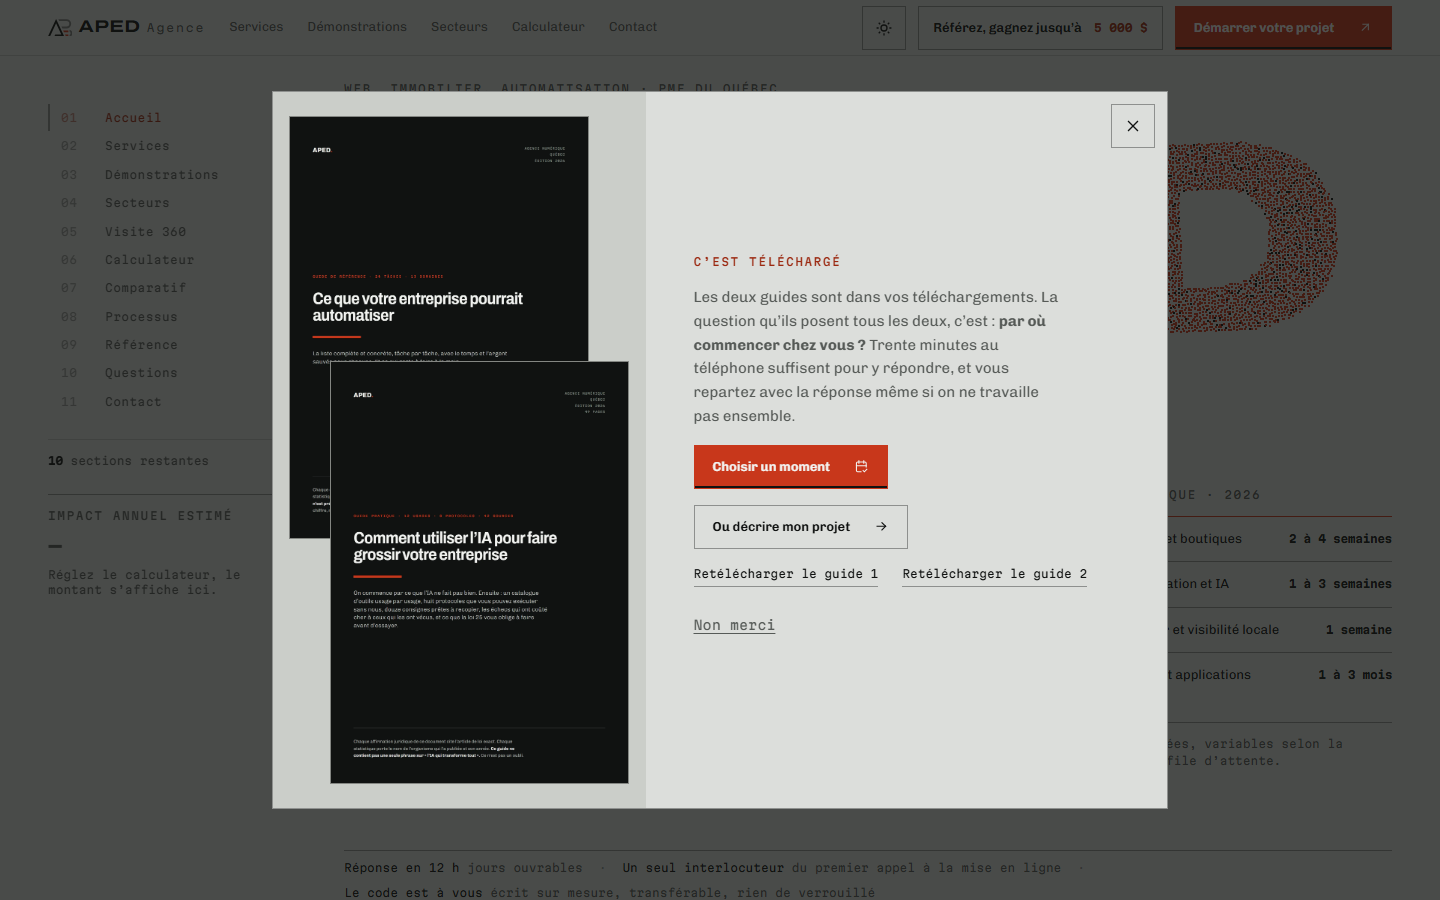
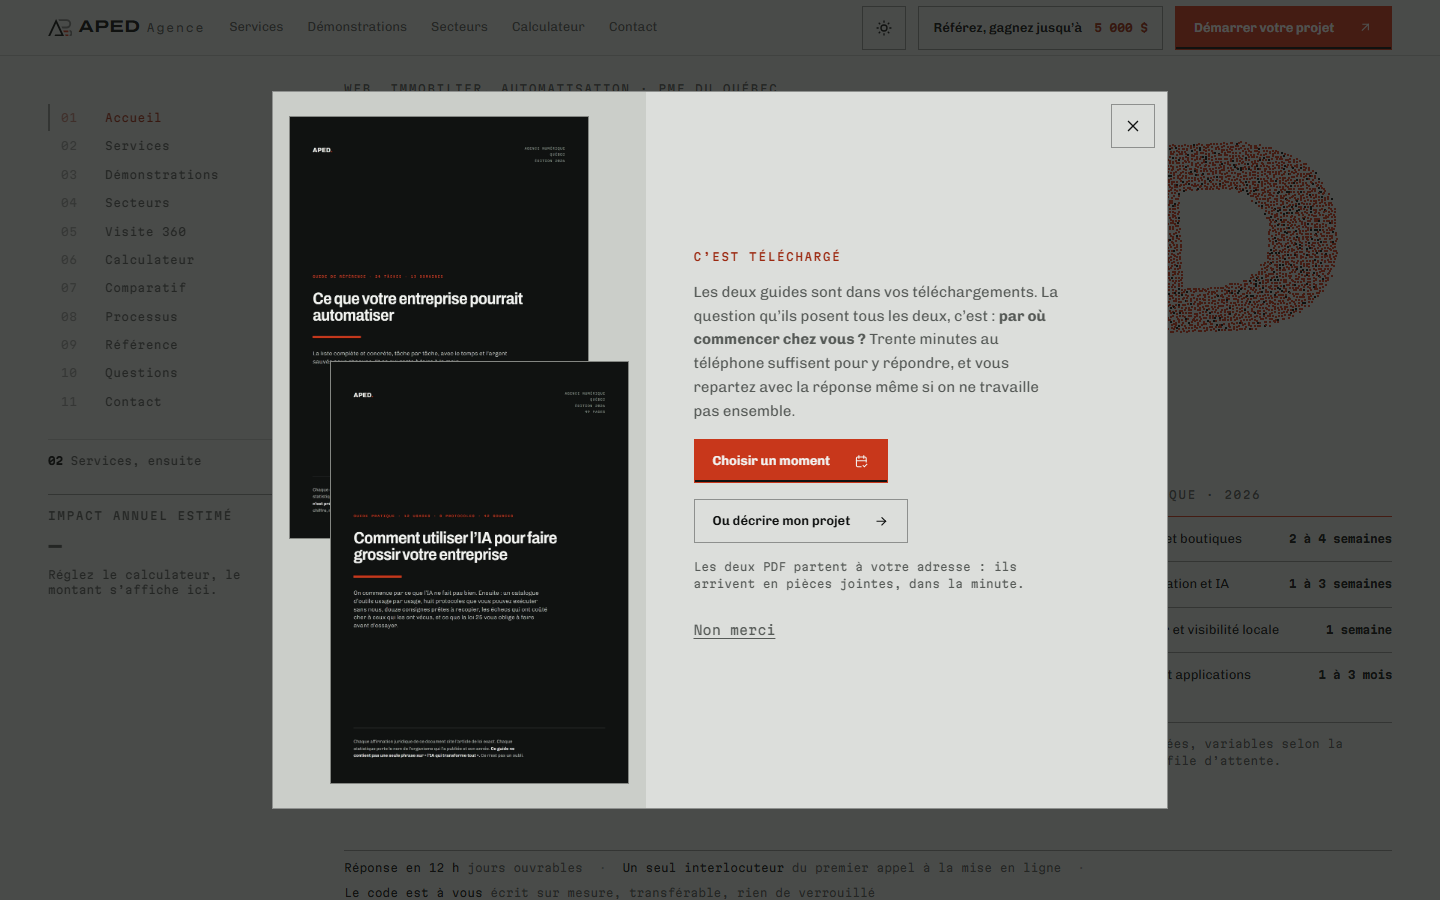
les guides partent du serveur, contre coordonnees, pour de vrai
POINT 3d. Ils etaient servis en STATIQUE : `GET
/documents/aped-automatisation.pdf` rendait 2 Mo de PDF a qui
connaissait l'adresse — et l'adresse etait EN CLAIR dans
`index.html` ET dans `js/main.js`. Le popup annoncait « contre vos
coordonnees » et ne gardait rien : le lead magnet ne captait que
ceux qui voulaient bien jouer le jeu.

APPS SCRIPT NE SAIT PAS SERVIR D'OCTETS. `ContentService` ne rend
que du texte, `HtmlService` que du HTML : il n'existe aucune facon
de faire descendre un PDF par une Web App. La seule livraison qui
soit a la fois REELLE et CONDITIONNELLE est la piece jointe par
courriel — c'est celle-la.

  · les deux fichiers vivent dans un dossier Drive, plus dans le
    site ;
  · le formulaire du popup declenche un courriel avec les deux en
    pieces jointes ;
  · plus AUCUN lien vers un PDF dans la page, ni dans le script
    servi ;
  · `telecharger()` a disparu au lieu d'etre reecrite : une
    fonction qui pointe vers des fichiers qu'on ne sert plus est un
    lien mort qui attend son heure.

CE QUE CA COUTE, EN CLAIR : un envoi de plus au quota des cent par
jour, par lead. C'est le prix d'un lead magnet qui capte vraiment.

Un guide manquant dans Drive ne fait PAS echouer l'envoi : la
personne a donne ses coordonnees, elle doit recevoir quelque chose.
Le manque part au journal, ou il se voit — un envoi qui leve, lui,
ne laisserait que du silence.

Et le cas de `cadeau-check` gardait l'ANCIEN comportement : il
[…]

Changed region(s): [[0.4688, 0.28, 0.7188, 0.5911], [0.4688, 0.6222, 0.75, 0.6533], [0.4688, 0.6844, 0.5312, 0.7156]]

diff --git a/js/main.js b/js/main.js
@@ -1256,31 +1256,19 @@
       b.addEventListener("click", fermer);
     });
 
-    /* --- LES DEUX GUIDES, ET CE QU'ILS COUTENT MAINTENANT. --- */
-    var GUIDES = [
-      { fichier: "documents/aped-automatisation.pdf", nom: "aped-ce-que-vous-pourriez-automatiser.pdf" },
-      { fichier: "documents/aped-ia-croissance.pdf", nom: "aped-lia-pour-faire-grossir-votre-entreprise.pdf" }
-    ];
+    /* LES GUIDES NE SONT PLUS DANS LE SITE.  D-788
 
-    /* LE TELECHARGEMENT SE FAIT ICI, PAS PAR COURRIEL.  D-406
-       L'ancienne version promettait un envoi par courriel, alors
-       qu'aucun service d'envoi n'a jamais ete active : la promesse ne
-       tenait pas. Un `<a download>` clique par le script telecharge
-       tout de suite, sans reseau, sans promesse. */
-    function telecharger() {
-      GUIDES.forEach(function (g, i) {
-        window.setTimeout(function () {
-          var a = doc.createElement("a");
-          a.href = g.fichier;
-          a.download = g.nom;
-          a.rel = "noopener";
-          doc.body.appendChild(a);
-          a.click();
-          doc.body.removeChild(a);
-        }, i * 350);   /* deux telechargements simultanes : le second est souvent ignore */
-      });
-    }
+       Ils etaient servis en statique, et leurs adresses etaient EN
+       CLAIR ici meme : `GET /documents/aped-*.pdf` rendait 2 Mo de
+       PDF a qui les lisait dans ce fichier. Le popup annoncait
+       « contre vos coordonnees » et ne gardait rien.
 
+       C'est le serveur qui les envoie maintenant, en pieces
+       jointes, apres avoir recu les coordonnees. Il n'y a plus
+       rien a telecharger depuis le navigateur — et c'est pour ca
+       que `telecharger()` a disparu au lieu d'etre reecrite : une
+       fonction qui pointe vers des fichiers qu'on ne sert plus est
+       un lien mort qui attend son heure. */
     var form = $("#cadeauForm");
     var suite = $(".cadeau-suite", boite);
     var dejaBloc = $(".cadeau-deja", boite);
@@ -1320,11 +1308,21 @@
         setLoading(bouton, true, "Préparation…");
         say(etat, "");
 
-        /* LE TELECHARGEMENT NE DEPEND PAS DE L'ENVOI. Le visiteur a
-           donne ce qu'on demandait : il repart avec les guides, que
-           l'enregistrement de ses coordonnees aboutisse ou non. */
+        /* LA LIVRAISON DEPEND MAINTENANT DE L'ENVOI, ET C'EST LE
+           POINT.  D-788
+
+           Elle n'en dependait pas : les deux PDF se telechargeaient
+           depuis le site, l'enregistrement des coordonnees pouvait
+           echouer, le visiteur repartait servi. C'etait honnete
+           envers lui et faux envers le popup, qui annoncait
+           « contre vos coordonnees » et ne gardait rien.
+
+           C'est le serveur qui les envoie desormais, en pieces
+           jointes, apres avoir recu l'adresse. La MARQUE du don,
+           elle, se pose ici comme avant : quelqu'un qui a donne ses
+           coordonnees ne doit plus jamais qu'on les lui redemande,
+           meme si le courriel se perd en route. */
         try { localStorage.setItem(CLE_DONNE, new Date().toISOString().slice(0, 10)); } catch (err) {}
-        telecharger();
 
         var finir = function () {
           setLoading(bouton, false);

diff --git a/index.html b/index.html
@@ -3286,10 +3286,11 @@
           Ou d&eacute;crire mon projet
           <svg class="icon" aria-hidden="true"><use href="#i-arrow-right" /></svg>
         </button>
-        <p class="cadeau-liens">
-          <a href="documents/aped-automatisation.pdf" download data-cadeau-pdf="automatisation">Retélécharger le guide 1</a>
-          <a href="documents/aped-ia-croissance.pdf" download data-cadeau-pdf="ia">Retélécharger le guide 2</a>
-        </p>
+        <!-- PLUS AUCUN LIEN VERS LES PDF.  D-788
+             Ils etaient servis en statique : deux `GET` et on les
+             avait sans rien donner. Le serveur les envoie en pieces
+             jointes, c'est ce qui rend la condition vraie. -->
+        <p class="cadeau-liens cadeau-liens--dit">Les deux&nbsp;PDF partent à votre adresse&nbsp;: ils arrivent en pièces jointes, dans la minute.</p>
       </div>
 
       <!-- LE RETOUR. Une personne qui a deja donne ses coordonnees ne
@@ -3298,10 +3299,11 @@
       <div class="cadeau-deja" hidden>
         <p class="label cadeau-eyebrow">Vous les avez d&eacute;j&agrave;</p>
         <p class="cadeau-lead">Vous avez r&eacute;cup&eacute;r&eacute; vos guides. Reprenez-les quand vous voulez.</p>
-        <p class="cadeau-liens">
-          <a href="documents/aped-automatisation.pdf" download data-cadeau-pdf="automatisation">Retélécharger le guide 1</a>
-          <a href="documents/aped-ia-croissance.pdf" download data-cadeau-pdf="ia">Retélécharger le guide 2</a>
-        </p>
+        <!-- PLUS AUCUN LIEN VERS LES PDF.  D-788
+             Ils etaient servis en statique : deux `GET` et on les
+             avait sans rien donner. Le serveur les envoie en pieces
+             jointes, c'est ce qui rend la condition vraie. -->
+        <p class="cadeau-liens cadeau-liens--dit">Les deux&nbsp;PDF partent à votre adresse&nbsp;: ils arrivent en pièces jointes, dans la minute.</p>
       </div>
 
       <button class="cadeau-non link-btn" type="button" data-cadeau-non>Non merci</button>

diff --git a/css/app.css b/css/app.css
@@ -2086,6 +2086,11 @@ html.entree-saut .entree-plaque {
   transition: color var(--t-2) var(--e-snap), border-color var(--t-2) var(--e-snap);
 }
 .cadeau-liens a:hover { color: var(--accent-text); border-color: var(--accent-text); }
+/* CE N'EST PLUS UNE LISTE DE LIENS, C'EST UNE PHRASE.  D-788
+   Les deux PDF ne sont plus servis par le site ; le serveur les
+   envoie en pieces jointes. Ce qui reste ici l'annonce, et se lit
+   comme du texte, pas comme deux boutons morts. */
+.cadeau-liens--dit { display: block; color: var(--ink-muted); line-height: 1.5; max-width: 44ch; }
 .cadeau-fin {
   font-family: var(--font-data);
   font-size: var(--fs-8);

diff --git a/css/differe.css b/css/differe.css
@@ -1073,6 +1073,11 @@
   transition: color var(--t-2) var(--e-snap), border-color var(--t-2) var(--e-snap);
 }
 .cadeau-liens a:hover { color: var(--accent-text); border-color: var(--accent-text); }
+/* CE N'EST PLUS UNE LISTE DE LIENS, C'EST UNE PHRASE.  D-788
+   Les deux PDF ne sont plus servis par le site ; le serveur les
+   envoie en pieces jointes. Ce qui reste ici l'annonce, et se lit
+   comme du texte, pas comme deux boutons morts. */
+.cadeau-liens--dit { display: block; color: var(--ink-muted); line-height: 1.5; max-width: 44ch; }
 .cadeau-fin {
   font-family: var(--font-data);
   font-size: var(--fs-8);

diff --git a/SECTIONS.md b/SECTIONS.md
@@ -53,18 +53,18 @@ pourquoi (`DECISIONS.md`) ni comment ça bouge (`ANIMATIONS.md`).
 
 | № | Section | Ancre | `index.html` | l. | `css/app.css` | JS | autres |
 |---|---|---|---|---:|---|---|---|
-| 01 | **Accueil** | `#top` | 240-298 | 59 | 2171-2434 · 1655-1930 | `main.js` 370-475 | — |
-| 02 | **Services** | `#services` | 299-917 | 619 | 2435-3083 | `main.js` 476-875 | — |
-| 03 | **Réalisations** | `#realisations` | 918-1806 | 889 | 3084-4905 | `main.js` 876-1122 | — |
-| 04 | **Secteurs** | `#demos` | 1807-2019 | 213 | 4906-5059 | `main.js` 4937-5131 · `langue.js` 524-612 | `css/secteurs.css` (entier, injecte par JS) |
+| 01 | **Accueil** | `#top` | 240-298 | 59 | 2176-2439 · 1655-1930 | `main.js` 370-475 | — |
+| 02 | **Services** | `#services` | 299-917 | 619 | 2440-3088 | `main.js` 476-875 | — |
+| 03 | **Réalisations** | `#realisations` | 918-1806 | 889 | 3089-4910 | `main.js` 876-1122 | — |
+| 04 | **Secteurs** | `#demos` | 1807-2019 | 213 | 4911-5064 | `main.js` 4935-5129 · `langue.js` 524-612 | `css/secteurs.css` (entier, injecte par JS) |
 | 05 | **Visite 360** | `#visite` | 2020-2099 | 80 | — | — | `css/tour360.css` · `js/tour360.js` (entiers) |
-| 06 | **Calculateur** | `#calculateur` | 2100-2257 | 158 | 5060-5226 | `main.js` 4770-4936 | — |
-| 07 | **Comparatif** | `#comparatif` | 2258-2380 | 123 | 5227-5353 | — | — |
-| 08 | **Processus** | `#processus` | 2381-2609 | 229 | 5354-5696 | `main.js` 1123-1163 | — |
-| 09 | **Référence** | `#reference` | 2610-2779 | 170 | 5697-5846 · 5847-6050 | — | — |
-| 10 | **Questions** | `#faq` | 2780-2894 | 115 | 6218-6267 | `langue.js` 613-641 | — |
-| 11 | **Contact** | `#contact` | 2895-3113 | 219 | 6268-6485 | `main.js` 1771-1804 · `main.js` 2149-2327 · `main.js` 2727-2828 | — |
-| — | **Pied de page** | `#footer` | 3114-3173 | 60 | 6486-6557 | `main.js` 5601-5621 | — |
+| 06 | **Calculateur** | `#calculateur` | 2100-2257 | 158 | 5065-5231 | `main.js` 4768-4934 | — |
+| 07 | **Comparatif** | `#comparatif` | 2258-2380 | 123 | 5232-5358 | — | — |
+| 08 | **Processus** | `#processus` | 2381-2609 | 229 | 5359-5701 | `main.js` 1123-1163 | — |
+| 09 | **Référence** | `#reference` | 2610-2779 | 170 | 5702-5851 · 5852-6055 | — | — |
+| 10 | **Questions** | `#faq` | 2780-2894 | 115 | 6223-6272 | `langue.js` 613-641 | — |
+| 11 | **Contact** | `#contact` | 2895-3113 | 219 | 6273-6490 | `main.js` 1769-1802 · `main.js` 2147-2325 · `main.js` 2725-2826 | — |
+| — | **Pied de page** | `#footer` | 3114-3173 | 60 | 6491-6562 | `main.js` 5599-5619 | — |
 
 <!-- PLAGES:FIN -->
 
